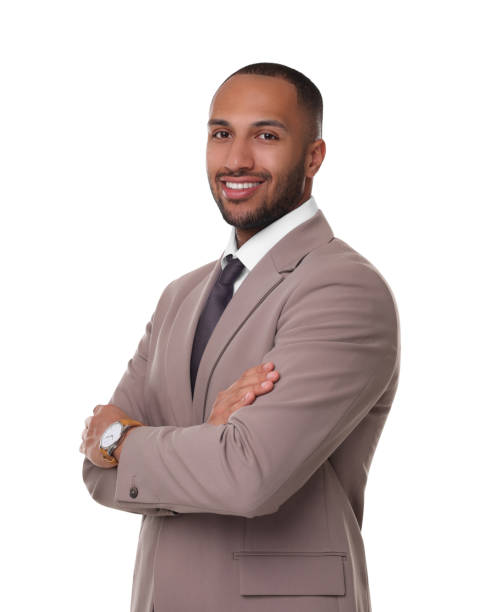
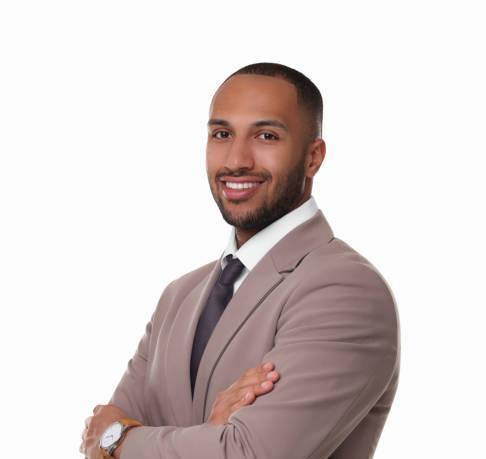
Updates

Changed region(s): [[0.1543, 0.0915, 0.8333, 1.0], [0.6173, 0.549, 0.6481, 0.5795]]

diff --git a/frontend/company/partners.html b/frontend/company/partners.html
@@ -148,7 +148,7 @@
 
     <div class="glass-card-light overflow-hidden">
       <div class="img-holder aspect-[4/3] rounded-none border-0 border-b-4 border-gold-500">
-        <img src="../assets/images/shared/office-01.jpg" alt="Adaeze Herger, SAN" loading="lazy" />
+        <img src="../assets/images/shared/istockphoto-1828924623-612x612.jpg" alt="Adaeze Herger, SAN" loading="lazy" />
       </div>
       <div class="p-6">
         <h4 class="text-lg font-bold text-navy-900">Paul, Olasunkanmi - SAN</h4>
@@ -162,7 +162,7 @@
 
     <div class="glass-card-light overflow-hidden">
       <div class="img-holder aspect-[4/3] rounded-none border-0 border-b-4 border-gold-500">
-        <img src="../assets/images/shared/office-01.jpg" alt="Adaeze Herger, SAN" loading="lazy" />
+        <img src="../assets/images/shared/istockphoto-1828924623-612x612.jpg" alt="Adaeze Herger, SAN" loading="lazy" />
       </div>
       <div class="p-6">
         <h4 class="text-lg font-bold text-navy-900">Paul, Olasunkanmi - SAN</h4>
@@ -176,7 +176,7 @@
 
     <div class="glass-card-light overflow-hidden">
       <div class="img-holder aspect-[4/3] rounded-none border-0 border-b-4 border-gold-500">
-        <img src="../assets/images/shared/office-01.jpg" alt="Adaeze Herger, SAN" loading="lazy" />
+        <img src="../assets/images/shared/istockphoto-1828924623-612x612.jpg" alt="Adaeze Herger, SAN" loading="lazy" />
       </div>
       <div class="p-6">
         <h4 class="text-lg font-bold text-navy-900">Paul, Olasunkanmi - SAN</h4>
@@ -190,7 +190,7 @@
 
     <div class="glass-card-light overflow-hidden">
       <div class="img-holder aspect-[4/3] rounded-none border-0 border-b-4 border-gold-500">
-        <img src="../assets/images/shared/office-01.jpg" alt="Adaeze Herger, SAN" loading="lazy" />
+        <img src="../assets/images/shared/istockphoto-1828924623-612x612.jpg" alt="Adaeze Herger, SAN" loading="lazy" />
       </div>
       <div class="p-6">
         <h4 class="text-lg font-bold text-navy-900">Paul, Olasunkanmi - SAN</h4>
@@ -204,7 +204,7 @@
 
     <div class="glass-card-light overflow-hidden">
       <div class="img-holder aspect-[4/3] rounded-none border-0 border-b-4 border-gold-500">
-        <img src="../assets/images/shared/office-01.jpg" alt="Adaeze Herger, SAN" loading="lazy" />
+        <img src="../assets/images/shared/istockphoto-1828924623-612x612.jpg" alt="Adaeze Herger, SAN" loading="lazy" />
       </div>
       <div class="p-6">
         <h4 class="text-lg font-bold text-navy-900">Paul, Olasunkanmi - SAN</h4>
@@ -218,7 +218,7 @@
 
     <div class="glass-card-light overflow-hidden">
       <div class="img-holder aspect-[4/3] rounded-none border-0 border-b-4 border-gold-500">
-        <img src="../assets/images/shared/office-01.jpg" alt="Adaeze Herger, SAN" loading="lazy" />
+        <img src="../assets/images/shared/istockphoto-1828924623-612x612.jpg" alt="Adaeze Herger, SAN" loading="lazy" />
       </div>
       <div class="p-6">
         <h4 class="text-lg font-bold text-navy-900">Paul, Olasunkanmi - SAN</h4>
@@ -232,7 +232,7 @@
 
     <div class="glass-card-light overflow-hidden">
       <div class="img-holder aspect-[4/3] rounded-none border-0 border-b-4 border-gold-500">
-        <img src="../assets/images/shared/office-01.jpg" alt="Adaeze Herger, SAN" loading="lazy" />
+        <img src="../assets/images/shared/istockphoto-1828924623-612x612.jpg" alt="Adaeze Herger, SAN" loading="lazy" />
       </div>
       <div class="p-6">
         <h4 class="text-lg font-bold text-navy-900">Paul, Olasunkanmi - SAN</h4>
@@ -246,7 +246,7 @@
 
     <div class="glass-card-light overflow-hidden">
       <div class="img-holder aspect-[4/3] rounded-none border-0 border-b-4 border-gold-500">
-        <img src="../assets/images/shared/office-01.jpg" alt="Adaeze Herger, SAN" loading="lazy" />
+        <img src="../assets/images/shared/istockphoto-1828924623-612x612.jpg" alt="Adaeze Herger, SAN" loading="lazy" />
       </div>
       <div class="p-6">
         <h4 class="text-lg font-bold text-navy-900">Paul, Olasunkanmi - SAN</h4>
@@ -273,7 +273,7 @@
 
       <div class="glass-card-light overflow-hidden">
   <div class="img-holder aspect-[1/1] rounded-none border-0 border-b-4 border-gold-500">
-    <img src="../assets/images/shared/office-01.jpg" alt="Paul, Olasunkanmi" loading="lazy" />
+    <img src="../assets/images/shared/istockphoto-1828924623-612x612.jpg" alt="Paul, Olasunkanmi" loading="lazy" />
   </div>
   <div class="p-5">
     <h4 style="text-align:center" class="text-lg font-bold text-navy-900">Paul, Olasunkanmi</h4>
@@ -285,7 +285,7 @@
 
       <div class="glass-card-light overflow-hidden">
   <div class="img-holder aspect-[1/1] rounded-none border-0 border-b-4 border-gold-500">
-    <img src="../assets/images/shared/office-01.jpg" alt="Kayode Afolabi" loading="lazy" />
+    <img src="../assets/images/shared/istockphoto-1828924623-612x612.jpg" alt="Kayode Afolabi" loading="lazy" />
   </div>
   <div class="p-5">
     <h4 style="text-align:center" class="text-lg font-bold text-navy-900">Paul, Olasunkanmi</h4>
@@ -297,7 +297,7 @@
 
       <div class="glass-card-light overflow-hidden">
   <div class="img-holder aspect-[1/1] rounded-none border-0 border-b-4 border-gold-500">
-    <img src="../assets/images/shared/office-01.jpg" alt="Halima Garba" loading="lazy" />
+    <img src="../assets/images/shared/istockphoto-1828924623-612x612.jpg" alt="Halima Garba" loading="lazy" />
   </div>
   <div class="p-5">
     <h4 style="text-align:center" class="text-lg font-bold text-navy-900">Paul, Olasunkanmi</h4>
@@ -309,7 +309,7 @@
 
       <div class="glass-card-light overflow-hidden">
   <div class="img-holder aspect-[1/1] rounded-none border-0 border-b-4 border-gold-500">
-    <img src="../assets/images/shared/office-01.jpg" alt="Chukwuemeka Obi" loading="lazy" />
+    <img src="../assets/images/shared/istockphoto-1828924623-612x612.jpg" alt="Chukwuemeka Obi" loading="lazy" />
   </div>
   <div class="p-5">
     <h4 style="text-align:center" class="text-lg font-bold text-navy-900">Paul, Olasunkanmi</h4>
@@ -321,7 +321,7 @@
 
       <div class="glass-card-light overflow-hidden">
   <div class="img-holder aspect-[1/1] rounded-none border-0 border-b-4 border-gold-500">
-    <img src="../assets/images/shared/office-01.jpg" alt="Funmilayo Adebayo" loading="lazy" />
+    <img src="../assets/images/shared/istockphoto-1828924623-612x612.jpg" alt="Funmilayo Adebayo" loading="lazy" />
   </div>
   <div class="p-5">
     <h4 style="text-align:center" class="text-lg font-bold text-navy-900">Paul, Olasunkanmi</h4>
@@ -333,7 +333,7 @@
 
       <div class="glass-card-light overflow-hidden">
   <div class="img-holder aspect-[1/1] rounded-none border-0 border-b-4 border-gold-500">
-    <img src="../assets/images/shared/office-01.jpg" alt="Segun Owolabi" loading="lazy" />
+    <img src="../assets/images/shared/istockphoto-1828924623-612x612.jpg" alt="Segun Owolabi" loading="lazy" />
   </div>
   <div class="p-5">
     <h4 style="text-align:center" class="text-lg font-bold text-navy-900">Paul, Olasunkanmi</h4>
@@ -345,7 +345,7 @@
 
       <div class="glass-card-light overflow-hidden">
   <div class="img-holder aspect-[1/1] rounded-none border-0 border-b-4 border-gold-500">
-    <img src="../assets/images/shared/office-01.jpg" alt="Chiamaka Nnaji" loading="lazy" />
+    <img src="../assets/images/shared/istockphoto-1828924623-612x612.jpg" alt="Chiamaka Nnaji" loading="lazy" />
   </div>
   <div class="p-5">
     <h4 style="text-align:center" class="text-lg font-bold text-navy-900">Paul, Olasunkanmi</h4>
@@ -357,7 +357,7 @@
 
       <div class="glass-card-light overflow-hidden">
   <div class="img-holder aspect-[1/1] rounded-none border-0 border-b-4 border-gold-500">
-    <img src="../assets/images/shared/office-01.jpg" alt="Yusuf Danladi" loading="lazy" />
+    <img src="../assets/images/shared/istockphoto-1828924623-612x612.jpg" alt="Yusuf Danladi" loading="lazy" />
   </div>
   <div class="p-5">
     <h4 style="text-align:center" class="text-lg font-bold text-navy-900">Paul, Olasunkanmi</h4>

diff --git a/frontend/index.html b/frontend/index.html
@@ -166,7 +166,7 @@
   <div class="grid grid-cols-1 gap-10 lg:grid-cols-12 lg:gap-14">
     <div class="lg:col-span-5">
       <div class="img-holder aspect-[4/3]">
-  <img src="assets/images/shared/office-01.jpg"
+  <img src="../assets/images/shared/istockphoto-2231454019-612x612.jpg"
        alt="Herger's & Co. office reception — placeholder image" loading="lazy" />
 </div>
     </div>
@@ -290,7 +290,7 @@
     <div class="grid grid-cols-1 gap-6 sm:grid-cols-2 lg:grid-cols-4">
       <div class="glass-card-light overflow-hidden">
   <div class="img-holder aspect-[1/1] rounded-none border-0 border-b-4 border-gold-500">
-    <img src="assets/images/shared/office-01.jpg" alt="Paul, Olasunkanmi - Snr. Partner, SAN" loading="lazy" />
+    <img src="assets/images/shared/istockphoto-1828924623-612x612.jpg" alt="Paul, Olasunkanmi - Snr. Partner, SAN" loading="lazy" />
   </div>
   <div class="p-5">
     <h4 style="text-align: center" class="text-lg font-bold text-navy-900">Paul, Olasunkanmi - SAN</h4>
@@ -300,7 +300,7 @@
 </div>
       <div class="glass-card-light overflow-hidden">
   <div class="img-holder aspect-[1/1] rounded-none border-0 border-b-4 border-gold-500">
-    <img src="assets/images/shared/office-01.jpg" alt="Paul, Olasunkanmi - Snr. Partner, SAN" loading="lazy" />
+    <img src="assets/images/shared/istockphoto-1828924623-612x612.jpg" alt="Paul, Olasunkanmi - Snr. Partner, SAN" loading="lazy" />
   </div>
   <div class="p-5">
     <h4 style="text-align: center" class="text-lg font-bold text-navy-900">Paul, Olasunkanmi - SAN</h4>
@@ -310,7 +310,7 @@
 </div>
       <div class="glass-card-light overflow-hidden">
   <div class="img-holder aspect-[1/1] rounded-none border-0 border-b-4 border-gold-500">
-    <img src="assets/images/shared/office-01.jpg" alt="Paul, Olasunkanmi - SAN" loading="lazy" />
+    <img src="assets/images/shared/istockphoto-1828924623-612x612.jpg" alt="Paul, Olasunkanmi - SAN" loading="lazy" />
   </div>
   <div class="p-5">
     <h4 style="text-align: center" class="text-lg font-bold text-navy-900">Paul, Olasunkanmi - SAN</h4>
@@ -320,7 +320,7 @@
 </div>
       <div class="glass-card-light overflow-hidden">
   <div class="img-holder aspect-[1/1] rounded-none border-0 border-b-4 border-gold-500">
-    <img src="assets/images/shared/office-01.jpg" alt="Paul, Olasunkanmi - SAN" loading="lazy" />
+    <img src="assets/images/shared/istockphoto-1828924623-612x612.jpg" alt="Paul, Olasunkanmi - SAN" loading="lazy" />
   </div>
   <div class="p-5">
     <h4 style="text-align: center" class="text-lg font-bold text-navy-900">Paul, Olasunkanmi - SAN</h4>
@@ -346,7 +346,7 @@
     <div class="grid grid-cols-1 gap-8 md:grid-cols-3">
       <div>
         <div class="img-holder aspect-[16/10]">
-  <img src="assets/images/shared/office-01.jpg"
+  <img src="assets/images/shared/istockphoto-1129810557-612x612.jpg"
        alt="Regulatory briefing document — placeholder image" loading="lazy" />
 </div>
         <span class="mt-4 inline-block text-xs font-bold uppercase tracking-wider text-gold-400">Publications</span>
@@ -354,7 +354,7 @@
       </div>
       <div>
         <div class="img-holder aspect-[16/10]">
-  <img src="assets/images/shared/office-01.jpg"
+  <img src="assets/images/shared/istockphoto-1129810557-612x612.jpg"
        alt="Signing ceremony — placeholder image" loading="lazy" />
 </div>
         <span class="mt-4 inline-block text-xs font-bold uppercase tracking-wider text-gold-400">Firm News</span>
@@ -362,7 +362,7 @@
       </div>
       <div>
         <div class="img-holder aspect-[16/10]">
-  <img src="assets/images/shared/office-01.jpg"
+  <img src="assets/images/shared/istockphoto-1129810557-612x612.jpg"
        alt="Data governance workshop — placeholder image" loading="lazy" />
 </div>
         <span class="mt-4 inline-block text-xs font-bold uppercase tracking-wider text-gold-400">NGO & Social Services</span>

diff --git a/frontend/company/clients.html b/frontend/company/clients.html
@@ -139,7 +139,7 @@
   <div class="grid grid-cols-1 gap-10 lg:grid-cols-12 lg:gap-14">
     <div class="lg:col-span-5">
       <div class="img-holder aspect-[7/3]">
-  <img src="../assets/images/shared/office-01.jpg"
+  <img src="../assets/images/shared/istockphoto-2231454019-612x612.jpg"
        alt="Client relationship meeting — placeholder image" loading="lazy" />
 </div>
     </div>
@@ -205,7 +205,7 @@
   <div class="grid grid-cols-1 gap-8 md:grid-cols-2 lg:grid-cols-3">
     <div>
       <div class="img-holder aspect-[16/10]">
-  <img src="../assets/images/shared/office-01.jpg"
+  <img src="../assets/images/shared/istockphoto-1353796843-612x612.jpg"
        alt="Manufacturing plant — placeholder image" loading="lazy" />
 </div>
       <span class="mt-4 inline-block text-xs font-bold uppercase tracking-wider text-gold-700">Manufacturing</span>
@@ -214,7 +214,7 @@
     </div>
     <div>
       <div class="img-holder aspect-[16/10]">
-  <img src="../assets/images/shared/office-01.jpg"
+  <img src="../assets/images/shared/istockphoto-908633080-612x612.jpg"
        alt="Mining exploration site — placeholder image" loading="lazy" />
 </div>
       <span class="mt-4 inline-block text-xs font-bold uppercase tracking-wider text-gold-700">Mining & Exportation</span>
@@ -223,7 +223,7 @@
     </div>
     <div>
       <div class="img-holder aspect-[16/10]">
-  <img src="../assets/images/shared/office-01.jpg"
+  <img src="../assets/images/shared/istockphoto-1349722339-612x612.jpg"
        alt="Fintech operations center — placeholder image" loading="lazy" />
 </div>
       <span class="mt-4 inline-block text-xs font-bold uppercase tracking-wider text-gold-700">Financial Services</span>
@@ -232,7 +232,7 @@
     </div>
     <div>
       <div class="img-holder aspect-[16/10]">
-  <img src="../assets/images/shared/office-01.jpg"
+  <img src="../assets/images/shared/istockphoto-172134753-612x612.jpg"
        alt="Film production crew — placeholder image" loading="lazy" />
 </div>
       <span class="mt-4 inline-block text-xs font-bold uppercase tracking-wider text-gold-700">Media & Entertainment</span>
@@ -241,7 +241,7 @@
     </div>
     <div>
       <div class="img-holder aspect-[16/10]">
-  <img src="../assets/images/shared/office-01.jpg"
+  <img src="../assets/images/shared/istockphoto-1339057752-612x612.jpg"
        alt="Cargo vessel — placeholder image" loading="lazy" />
 </div>
       <span class="mt-4 inline-block text-xs font-bold uppercase tracking-wider text-gold-700">Maritime & Trade</span>
@@ -250,7 +250,7 @@
     </div>
     <div>
       <div class="img-holder aspect-[16/10]">
-  <img src="../assets/images/shared/office-01.jpg"
+  <img src="../assets/images/shared/istockphoto-1280960930-612x612.jpg"
        alt="Logistics warehouse — placeholder image" loading="lazy" />
 </div>
       <span class="mt-4 inline-block text-xs font-bold uppercase tracking-wider text-gold-700">Technology</span>

diff --git a/frontend/news-events.html b/frontend/news-events.html
@@ -210,7 +210,7 @@
     <div class="grid grid-cols-1 gap-8 md:grid-cols-3">
       <div>
         <div class="img-holder aspect-[16/10]">
-  <img src="assets/images/shared/office-01.jpg"
+  <img src="assets/images/shared/istockphoto-1129810557-612x612.jpg"
        alt="Seminar hall — placeholder image" loading="lazy" />
 </div>
         <p class="mt-4 text-xs font-bold uppercase tracking-wider text-gold-400">Taxation Policy - NOV 2027 &middot; Lagos & Virtual</p>
@@ -220,7 +220,7 @@
       </div>
       <div>
         <div class="img-holder aspect-[16/10]">
-  <img src="assets/images/shared/office-01.jpg"
+  <img src="assets/images/shared/istockphoto-1899809091-612x612.jpg"
        alt="Panel discussion — placeholder image" loading="lazy" />
 </div>
         <p class="mt-4 text-xs font-bold uppercase tracking-wider text-gold-400">Dangote's Refinery IPO - NOV 2027 &middot; Virtual</p>
@@ -230,7 +230,7 @@
       </div>
       <div>
         <div class="img-holder aspect-[16/10]">
-  <img src="assets/images/shared/office-01.jpg"
+  <img src="assets/images/shared/istockphoto-1798152511-612x612.jpg"
        alt="Webinar presentation — placeholder image" loading="lazy" />
 </div>
         <p class="mt-4 text-xs font-bold uppercase tracking-wider text-gold-400">FCCPC Merger Review & Analysis - DEC 2027 &middot; Virtual</p>

diff --git a/frontend/publications.html b/frontend/publications.html
@@ -210,7 +210,7 @@
     <div class="grid grid-cols-1 gap-8 md:grid-cols-3">
       <a href="practices/mergers-acquisitions.html" class="glass-card-light block overflow-hidden">
         <div class="img-holder aspect-[16/10]">
-  <img src="assets/images/shared/office-01.jpg"
+  <img src="assets/images/shared/istockphoto-1798152511-612x612.jpg"
        alt="Regulatory analysis document — placeholder image" loading="lazy" />
 </div>
         <div class="p-5">
@@ -221,7 +221,7 @@
       </a>
       <a href="practices/risk-regulatory-compliance.html" class="glass-card-light block overflow-hidden">
         <div class="img-holder aspect-[16/10]">
-  <img src="assets/images/shared/office-01.jpg"
+  <img src="assets/images/shared/istockphoto-1341253865-612x612.jpg"
        alt="Data governance briefing — placeholder image" loading="lazy" />
 </div>
         <div class="p-5">
@@ -232,7 +232,7 @@
       </a>
       <a href="practices/mining-production-law.html" class="glass-card-light block overflow-hidden">
         <div class="img-holder aspect-[16/10]">
-  <img src="assets/images/shared/office-01.jpg"
+  <img src="assets/images/shared/istockphoto-157290117-612x612.jpg"
        alt="Mining checklist document — placeholder image" loading="lazy" />
 </div>
         <div class="p-5">

diff --git a/frontend/company/about.html b/frontend/company/about.html
@@ -140,7 +140,7 @@
     <div class="lg:col-span-5">
 
       <div class="img-holder aspect-[7/3]">
-  <img src="../assets/images/shared/office-01.jpg"
+  <img src="../assets/images/shared/istockphoto-2231454019-612x612.jpg"
        alt="Founding partners, early years — placeholder image" loading="lazy" />
 </div>
 
@@ -173,7 +173,7 @@
     </div>
     <div class="lg:col-span-5">
       <div class="img-holder aspect-[4/3]">
-  <img src="../assets/images/shared/office-01.jpg"
+  <img src="../assets/images/shared/istockphoto-2230299952-612x612.jpg"
        alt="Team collaboration session — placeholder image" loading="lazy" />
 </div>
     </div>
